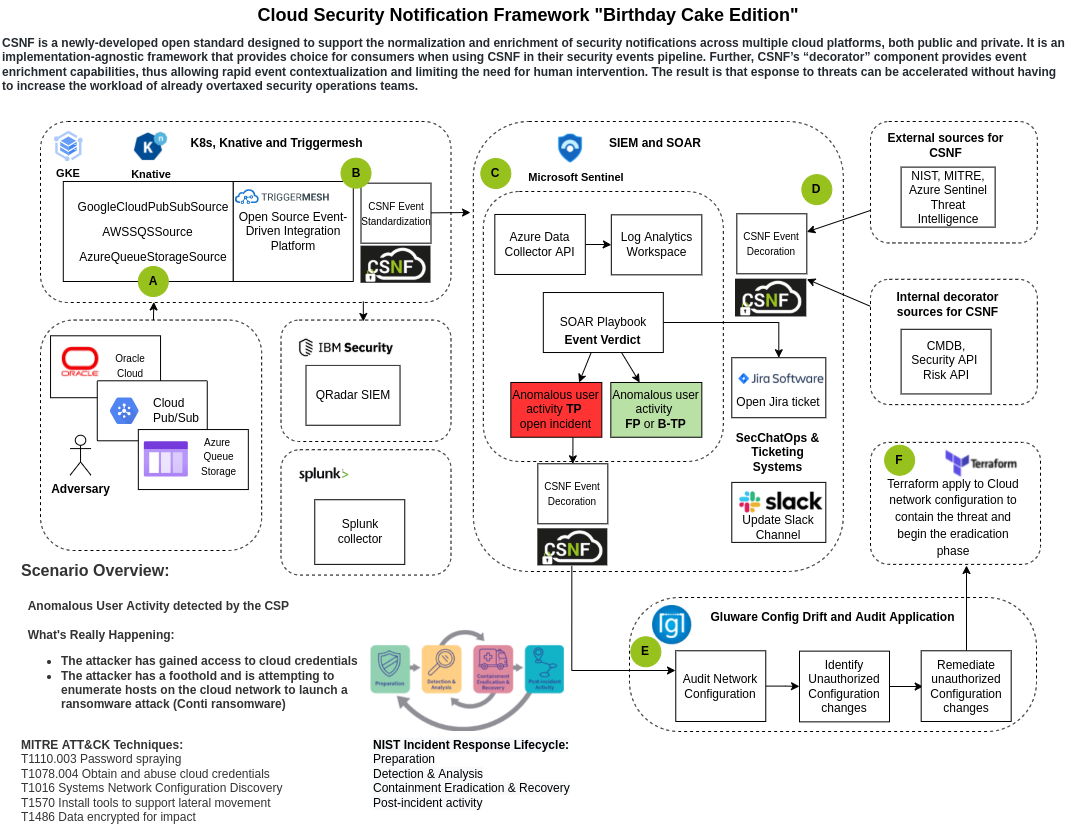
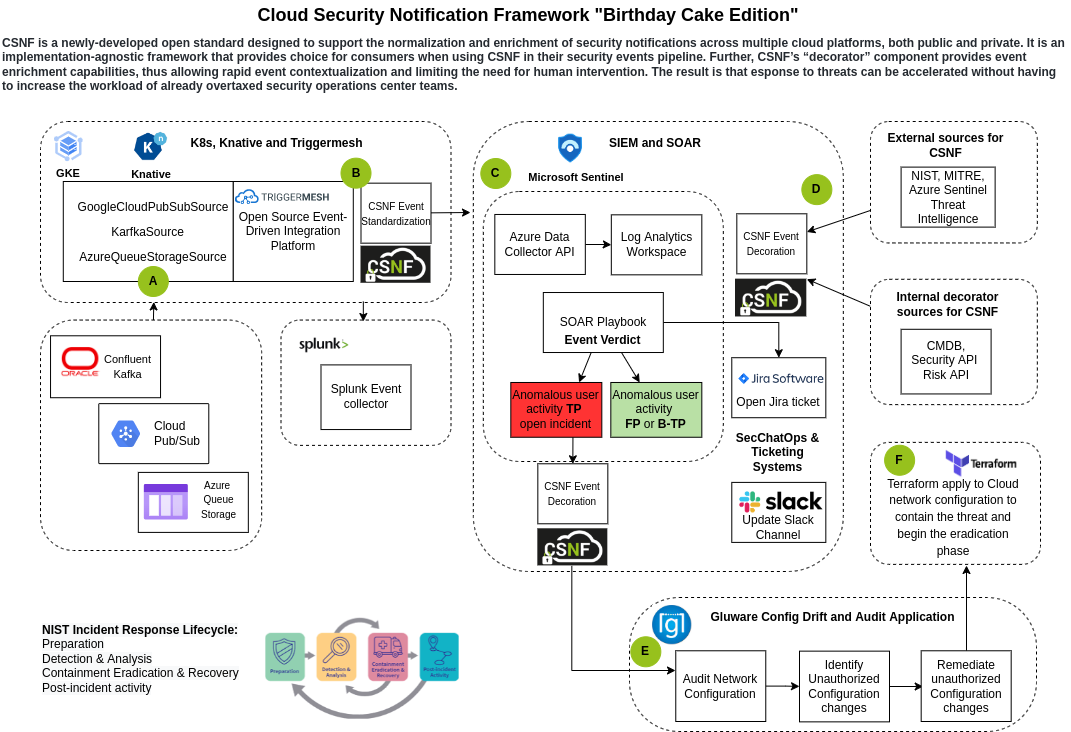
updated image and todo's

Changed region(s): [[0.0, 0.0, 1.0, 1.0]]

diff --git a/birthday-cake/TODO.md b/birthday-cake/TODO.md
@@ -4,22 +4,22 @@
 
 **Cupcake to bday dictionary/standardization, Oracle works today + Microsoft (stretch goal) - Jeff/Josh**
 
-- [ ] Consume JSON Oracle Anomalous User event from Confluent Kafka topic (Jeff/Josh)
-- [ ] Consume JSON Azure Anomalous User event from Azure Queue Storage (Jeff/Josh)
-- [ ] Consume JSON Aquasec events from Google Pub Sub (Jeff)
-- [ ] Standardize Oracle event using birthday-cake > send to Sentinel (Jeff/Josh)
-- [ ] Standardize Azure event using birthday-cake > send to Sentinel (Jeff/Josh)
-- [ ] Determine Splunk HEC to use for the demo (Jeff/Peter)
-- [ ] Send Raw Oracle event to Splunk - need a Splunk (do not decorate)(Jeff/Josh)
-- [ ] Send Raw Azure event to Splunk (do not decorate)(Jeff/Josh)
-- [ ] Bumblebee / CSNF integration planning (Jeff/Josh/Peter)
+- [ ] Consume JSON Oracle Anomalous User event from Confluent Kafka topic - DONE
+- [ ] Consume JSON Azure Anomalous User event from Azure Queue Storage - DONE
+- [ ] Consume JSON Aquasec events from Google Pub Sub - DONE
+- [ ] Standardize Oracle event using birthday-cake > send to Sentinel - DONE
+- [ ] Standardize Azure event using birthday-cake > send to Sentinel - DNOE
+- [ ] Set up Splunk Web and Splunk Event Collector - DONE
+- [ ] Send Raw Oracle event to Splunk - DONE
+- [ ] Send Raw Azure event to Splunk - DONE
+- [ ] Bumblebee CSNF declarative transformation - DONE 
 
 **C to D**
 
 **External decorator sources for CSNF - based on Customer Risk API; Internal decorator sources for CSNF - Azure Threat Intelligence**
 
 - [ ] Configure and test internal decorator source - using the Risk API and integrate to playbook (Peter)
-- [ ] Determine external decorator source - do this in Sentnel using Azure Threat Intelligence and/or MITRE (Preeti/Peter)
+- [ ] Determine external decorator source - do this in Sentinel using Azure Threat Intelligence and/or MITRE (Preeti/Peter)
 - [ ] Update playbook > Jira > Slack integration as required for Azure and OCI events (Peter/Preeti)
 - [ ] Configure a Glueware org and basic auth credentials to access the GluAPI from Sentinel (Michael)
 - [ ] Update the Sentinel Playbook to send the Sentinel CSNF decorated event to Gluware's HTTPS endpoint (Michael/Peter/Preeti)
